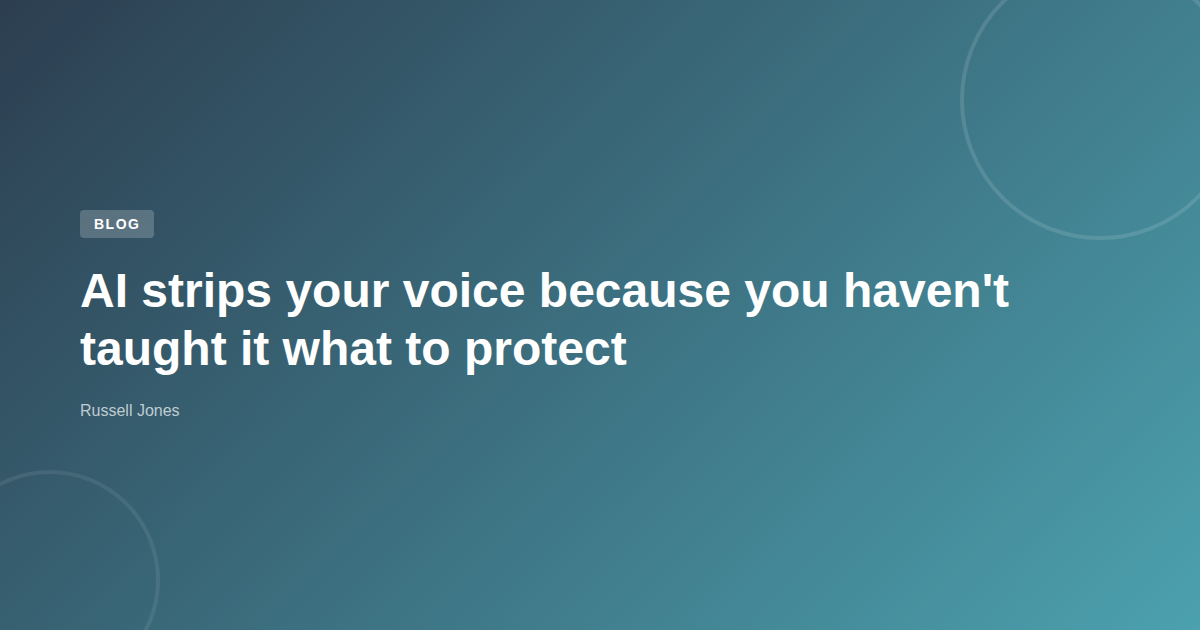
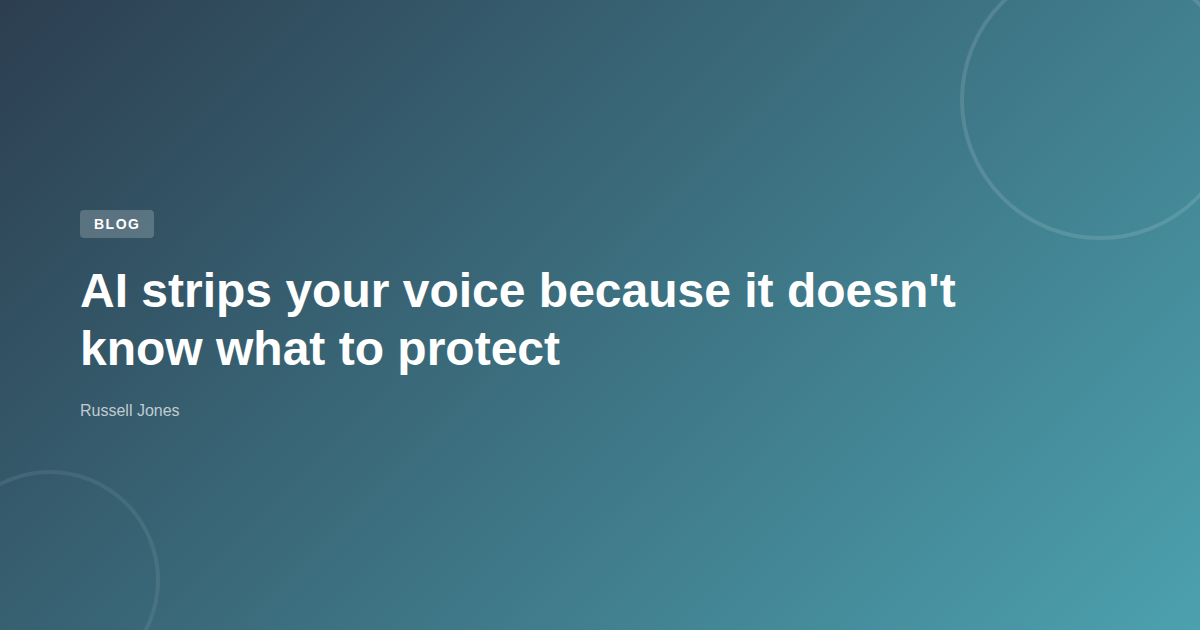
feat: publish ai-strips-your-voice-style-layer post
Soften framing toward Ruth (collaboration not correction), fix redundant
checklist between style and review sections, break up run-on paragraphs,
switch to first person for personal automation plans, regenerate OG image
with updated title.

Changed region(s): [[0.0617, 0.5127, 0.5242, 0.6032], [0.6167, 0.4222, 0.8633, 0.5127]]

diff --git a/content/posts/ai/ai-strips-your-voice-style-layer/index.md b/content/posts/ai/ai-strips-your-voice-style-layer/index.md
@@ -1,16 +1,16 @@
 ---
-title: "AI strips your voice because you haven't taught it what to protect"
+title: "AI strips your voice because it doesn't know what to protect"
 date: 2026-03-22
 categories: [ai]
 tags: [claude-code, ai-tools, writing, content-creation]
 summary: "Stop AI from stripping your writing voice. Encode your style rules, review the output, and feed corrections back in."
 slug: "ai-strips-your-voice-style-layer"
-draft: true
+draft: false
 ---
 
 Ahnii!
 
-Ruth M. Trucks [posted on LinkedIn](https://www.linkedin.com/feed/update/urn:li:activity:7441491723412951040/) that AI doesn't understand intent. She asked Claude to shorten her content and it stripped the curiosity hooks, conversational rhythm, and direct address that made her writing land. She's right about what happened. But the problem isn't that AI can't preserve voice. It's that she didn't tell it what to protect.
+Ruth M. Trucks [posted on LinkedIn](https://www.linkedin.com/feed/update/urn:li:activity:7441491723412951040/) that AI doesn't understand intent. She asked Claude to shorten her content and it stripped the curiosity hooks, conversational rhythm, and direct address that made her writing land. She's right. That's exactly what happens by default. AI doesn't know what to protect unless you tell it.
 
 This post shows how to build a style layer that travels with every prompt you send to [Claude Code](https://docs.anthropic.com/en/docs/claude-code/overview) or any AI writing tool. Encode your rules. Review the output. Feed corrections back in.
 
@@ -72,24 +72,9 @@ Each rule is binary. You can check the output against the list and flag violatio
 
 ## Review the Output
 
-Style rules only work if you check whether they were followed. A review checklist catches drift before you publish. Not "does this sound like me?" but specific, binary checks you can run against the text.
+Style rules only work if you check whether they were followed. This blog uses a separate reviewing skill that turns every rule from the style document into a yes-or-no check. Did the post follow the rule? Pass or fail. No interpretation.
 
-This blog uses a reviewing skill that runs the same checklist on every post. Here's a subset of the actual checks:
-
-- Does the post open with "Ahnii!" (exclamation mark, own paragraph)?
-- Does it close with "Baamaapii" (no emoji, own paragraph)?
-- Is the voice second person throughout ("you"/"your", not "I"/"my")?
-- Do all code blocks have language tags?
-- After each code block, are there 1-2 sentences explaining what it does?
-- Is the first mention of each product or tool linked?
-- Are headings keyword-rich, not generic like "The Problem" or "The Full Picture"?
-- Are em dashes used sparingly (one or two per post max)?
-- Do internal links use `relref` shortcodes, not root-relative paths?
-- Are tags capped at four, and does each tag appear in the body?
-
-Every item is yes or no. You don't interpret. You check.
-
-The skill produces structured findings in a fixed format:
+The key is the output format. The skill produces structured findings:
 
 ```text
 **[CATEGORY]** Line N: description
@@ -133,9 +118,16 @@ Each correction is permanent. Not a sticky note you forget. A rule that fires ev
 
 The system isn't finished. Older posts on this blog still have AI tells. Filler transitions, generic headings, em dashes where periods belong. That's expected. A style layer doesn't retroactively fix everything you published before it existed.
 
-The process is straightforward. You observe what doesn't sound right by reading your own output with fresh eyes. You measure it by tracking what needs fixing. Not a vague sense that "some posts need work." Specific revision plans filed as GitHub issues, auditable and prioritized. This batch of PSR posts needs heading rewrites. That batch of AI posts has too many em dashes. Each issue is scoped, actionable, and trackable.
+The process is straightforward. Read your own output with fresh eyes. Catch what doesn't sound right. Track what needs fixing.
 
-This loop is manual today. You read, you flag, you fix. Automating it is next: mining real work sessions for patterns, flagging drift automatically, feeding corrections back without a human in the loop every time. The tools exist. The style rules are already machine-checkable. Connecting them is engineering, not invention.
+Not a vague sense that "some posts need work." File specific issues:
+
+- These five posts have generic headings.
+- Those ten posts lean too hard on em dashes.
+
+Each one is scoped and trackable.
+
+This loop is manual today. I read, I flag, I fix. Automating it is next. I'm working on mining real work sessions for patterns, flagging drift automatically, and feeding corrections back without me in the loop every time. The style rules are already machine-checkable. Connecting them is engineering, not invention.
 
 The point isn't perfection. It's that each session is better than the last. Your voice gets clearer. The rules get tighter. The output gets closer to what you'd write yourself. That's the whole game.
 

diff --git a/docs/social/ai-strips-your-voice-style-layer.md b/docs/social/ai-strips-your-voice-style-layer.md
@@ -1,10 +1,10 @@
-# Social copy: AI strips your voice because you haven't taught it what to protect
+# Social copy: AI strips your voice because it doesn't know what to protect
 
 **Canonical URL:** https://jonesrussell.github.io/blog/ai-strips-your-voice-style-layer/
 
 ## Facebook
 
-AI strips your voice because you told it what to do but not what to protect. This post shows how to build a style layer: encode your rules, review the output, feed corrections back in. Real examples from my own blog writing process.
+AI strips your voice because it doesn't know what to protect. This post shows how to build a style layer: encode your rules, review the output, feed corrections back in. Real examples from my own blog writing process.
 
 https://jonesrussell.github.io/blog/ai-strips-your-voice-style-layer/
 
@@ -12,7 +12,7 @@ https://jonesrussell.github.io/blog/ai-strips-your-voice-style-layer/
 
 ## X (Twitter)
 
-AI strips your voice because you haven't taught it what to protect. Here's how a style layer fixes it.
+AI strips your voice because it doesn't know what to protect. Here's how a style layer fixes it.
 
 https://jonesrussell.github.io/blog/ai-strips-your-voice-style-layer/
 
